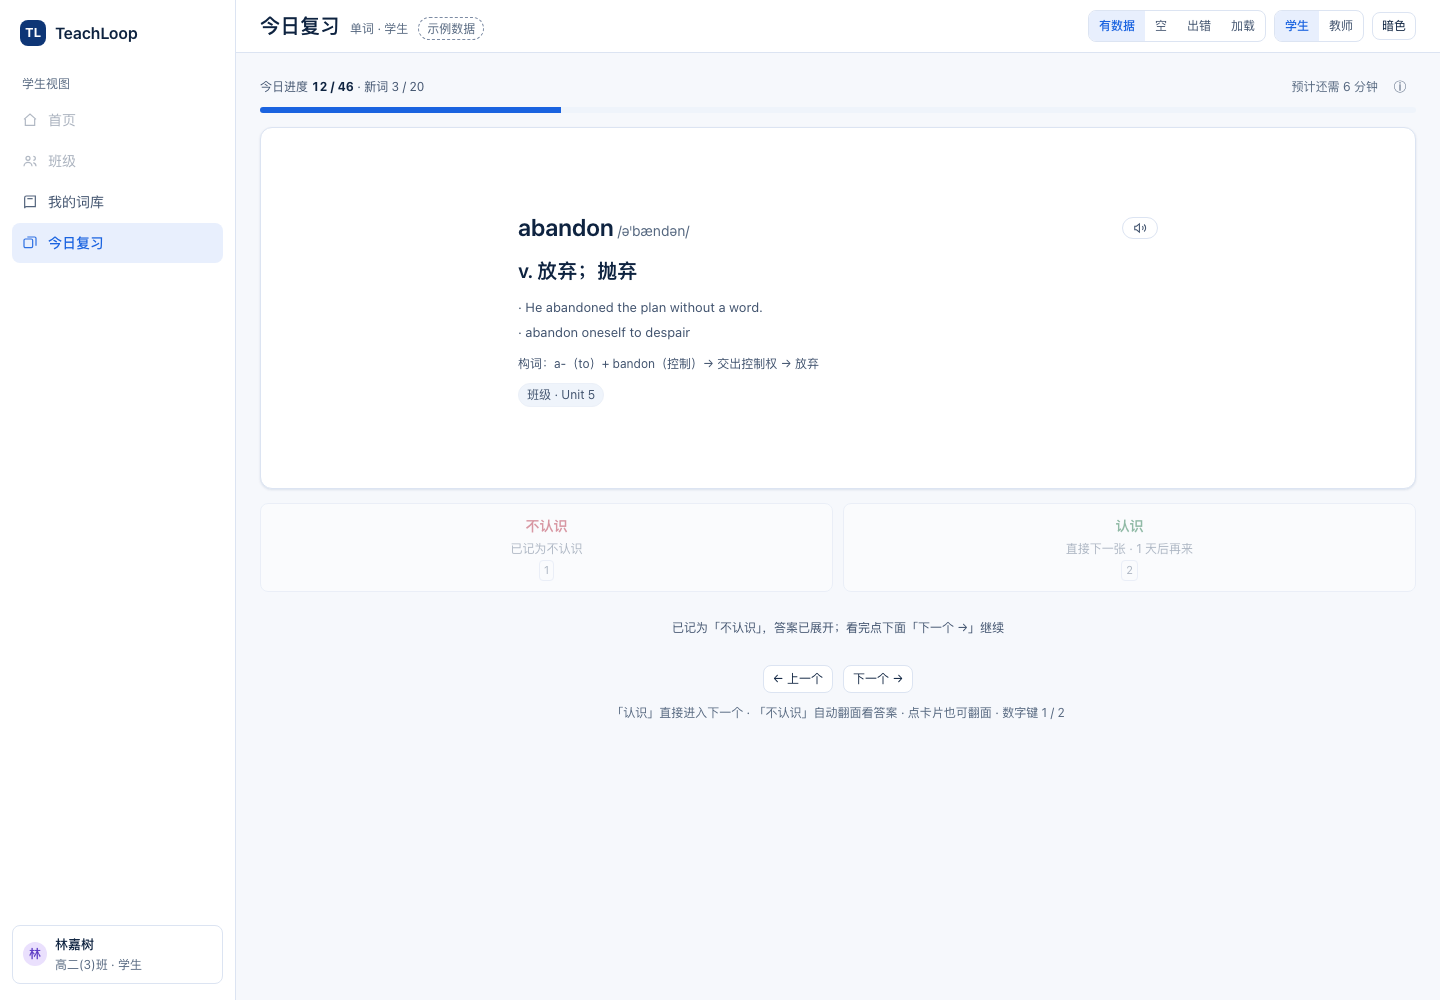
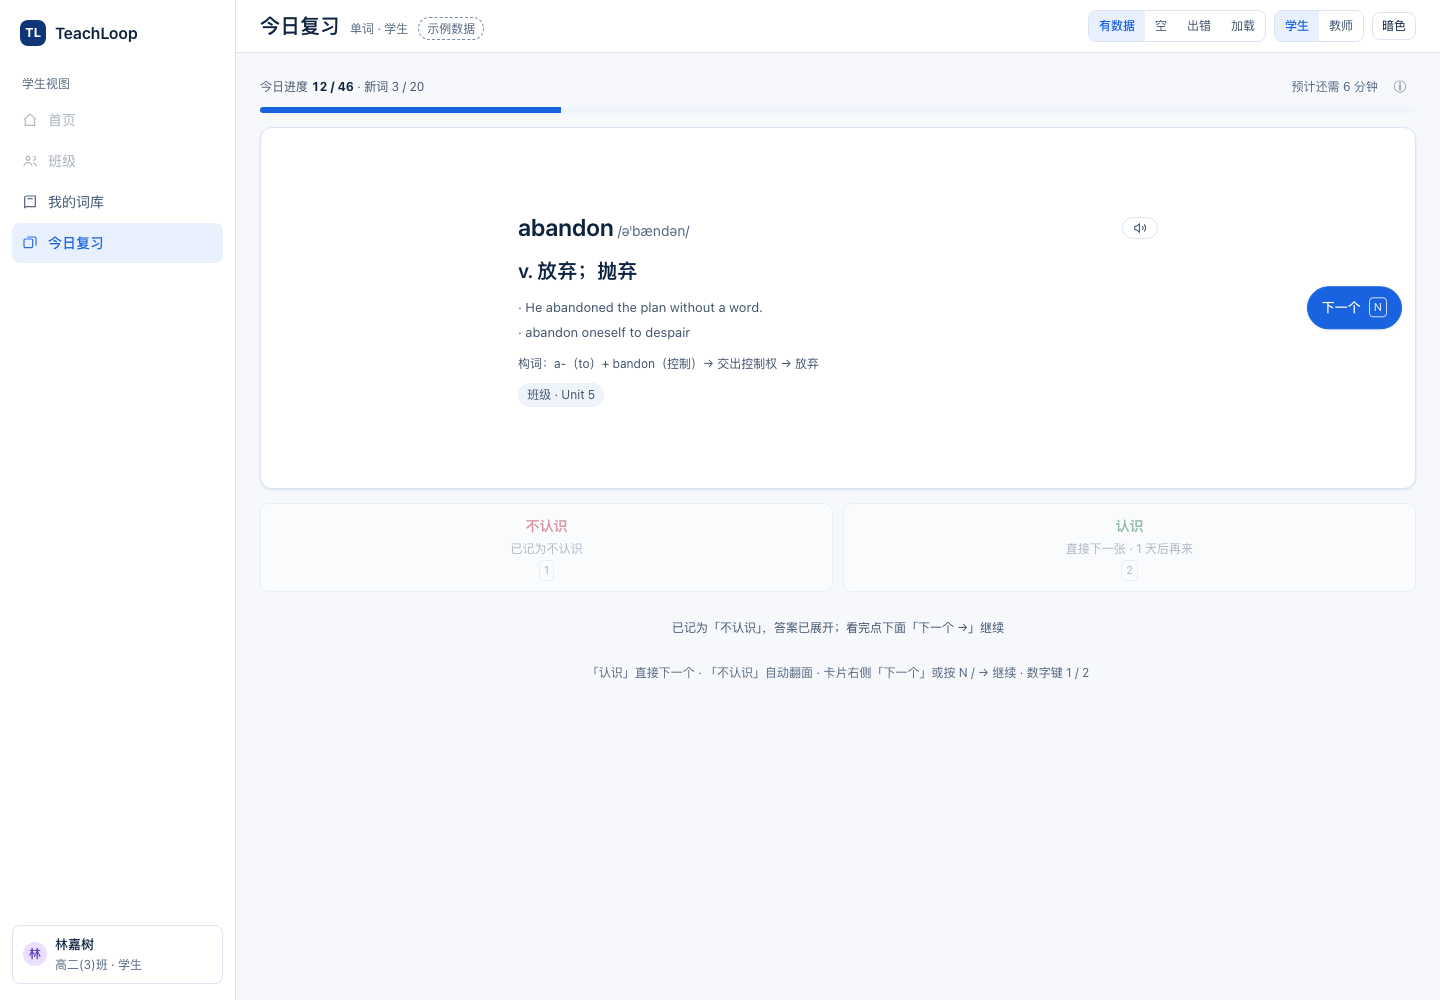
docs(vocab): 复习页去掉「上一个」、下一个改卡片右侧悬浮 + N/→ 快捷键
2026-10-23 决定：简化逻辑，不做上一个、不做撤销。

- 「下一个」移到卡片右侧悬浮：未评分时半透明，翻面后高亮为主按钮；窄屏落回卡片下方
- 快捷键：N 与 → 都等于下一个；数字键 1/2 仍是评分
- spec AC-53.7 改写；新增 §19 记录「误点后如何补救」的三种现有途径与代价（待定是否加重置进度）

Changed region(s): [[0.5, 0.651, 0.75, 0.744], [0.9062, 0.279, 0.9688, 0.341], [0.4062, 0.651, 0.4688, 0.682]]

diff --git a/docs/mock/vocab-2026-10-23/index.html b/docs/mock/vocab-2026-10-23/index.html
@@ -234,6 +234,15 @@
   .combo-list button:hover { background:var(--panel-2); }
   .class-panel { border:1px solid var(--line); border-radius:var(--radius-sm); padding:10px 12px; max-height:240px; overflow:auto; }
   .cp-group + .cp-group { border-top:1px dashed var(--line-2); margin-top:10px; padding-top:10px; }
+
+  .card-next { position:absolute; right:14px; top:50%; transform:translateY(-50%);
+               display:inline-flex; align-items:center; gap:8px; padding:10px 14px; border-radius:999px;
+               border:1px solid var(--line); background:var(--panel); color:var(--muted); font-size:13px;
+               box-shadow:var(--shadow); opacity:.55; transition:opacity .15s, background .15s; }
+  .card-next:hover { opacity:1; }
+  .card-next.on { opacity:1; background:var(--accent); border-color:var(--accent); color:var(--on-accent); font-weight:500; }
+  .card-next .kbd { font-size:11px; border:1px solid currentColor; border-radius:4px; padding:0 4px; opacity:.8; }
+  @media (max-width:760px) { .card-next { right:50%; transform:translate(50%,0); top:auto; bottom:-18px; } }
 </style>
 </head>
 <body>
@@ -804,7 +813,12 @@ function screenReview(){
         <div class="sm muted" style="margin-top:6px">新词 12 · 到期复习 34 · 今天已复习 12 · 卡组视图：易错 46 / Unit 5 28</div>
         <div class="sm muted-2" style="margin-top:6px">「认识」= 良好（间隔 × 易度），「不认识」= 忘记（5 分钟后重来）；连续 4 次认识且间隔 ≥45 天自动标为已掌握。参数都在 application.yml 里。</div>
       </div>`:''}
-      <div class="card">${S.flipped?back:front}</div>
+      <div style="position:relative">
+        <div class="card">${S.flipped?back:front}</div>
+        <button class="card-next ${(S.flipped||S.rated==='again')?'on':''}" onclick="nextCard()" title="下一个（N / →）">
+          下一个 <span class="kbd">N</span>
+        </button>
+      </div>
       <div class="rates" style="grid-template-columns:repeat(2,1fr)">
         <button class="rate again" ${S.rated?'disabled style="opacity:.45"':''} onclick="rate('again')">
           <span class="n">不认识</span><span class="d">${S.rated==='again'?'已记为不认识':'翻面看答案 · 5 分钟后再来'}</span><span class="kbd">1</span></button>
@@ -813,11 +827,8 @@ function screenReview(){
       </div>
       ${S.rated==='again'?`<div class="card-pad sm" style="margin-top:10px;text-align:center;color:var(--muted)">
         已记为「不认识」，答案已展开；看完点下面「下一个 →」继续</div>`:''}
-      <div class="row" style="justify-content:center;margin-top:12px;gap:10px">
-        <button class="btn sm" ${(S.free?S.freeIdx:S.idx)<=0?'disabled':''} onclick="prevCard()">← 上一个</button>
-        <button class="btn sm" onclick="nextCard()">下一个 →</button>
-      </div>
-      <div class="hint">「认识」直接进入下一个 · 「不认识」自动翻面看答案 · 点卡片也可翻面 · 数字键 1 / 2${S.free?" · S 移出复习":""}</div>
+
+      <div class="hint">「认识」直接下一个 · 「不认识」自动翻面 · 卡片右侧「下一个」或按 N / → 继续 · 数字键 1 / 2${S.free?" · S 移出复习":""}</div>
       ${S.free?`<div class="row" style="justify-content:center;margin-top:8px">
         <button class="btn" onclick="markKnown(currentWord().w);toast('已移出复习')">移出复习（S）</button>
         <button class="btn" onclick="endFree()">结束复习</button>
@@ -1166,6 +1177,7 @@ document.addEventListener('keydown', e=>{
   if (S.screen!=='review' || S.ds!=='data') return;
   if (e.code==='Space'){ e.preventDefault(); S.flipped=!S.flipped; render(); }
   if (e.key==='1'||e.key==='2') rate(e.key==='1'?'again':'good');
+  if (e.key.toLowerCase()==='n' || e.key==='ArrowRight') { e.preventDefault(); nextCard(); }
   if (e.key.toLowerCase()==='s' && S.free) { markKnown(currentWord().w); toast('已移出复习'); }
 });
 /* 支持 #review / #wordset / #assign / #library?ds=empty 深链，方便截图与评审 */

diff --git a/specs/004-vocab/spec.md b/specs/004-vocab/spec.md
@@ -120,7 +120,7 @@
   - 同一张卡**只能评一次**：评过之后两个按钮置灰，直到切到下一张；
   - 点击卡片本身是「手动翻面」，只展示内容、不产生评分。
 - [ ] AC-53.3 每次评分写入一条复习日志（词条、评分、时间、可选耗时）；「认识」评分后立即进入下一张，「不认识」评分后翻面停留。
-- [ ] AC-53.7 复习页有**「← 上一个 / 下一个 →」**：上一个可回看已评过的词（回看不改评分），下一个可跳过当前词；第一张时「上一个」禁用。
+- [ ] AC-53.7 复习页只有**「下一个」**，**悬浮在卡片右侧**：未评分时半透明（可跳过），翻面后（点了「不认识」）变为高亮主按钮；快捷键 **`N`** 与 **`→`** 等价。**不提供「上一个」，也不提供撤销**（2026-10-23 用户决定：简化逻辑）。
 - [ ] AC-53.4 按 §5 的表更新该词进度（状态、到期时间、间隔、易度）；该词下次出现的时间与表一致。**两档评分到内部调度参数的映射见 §5 与 §17（待讨论）**，实现时先按默认映射落地。
 - [ ] AC-53.5 调度决策来自**可替换策略**，默认 SM-2；验收判定以「默认策略」为准，换策略不改表结构。
 - [ ] AC-53.6 提交失败（断网/5xx）时停留在当前卡并提示重试；不前进、不重复记日志（同一次提交带幂等标识）。
@@ -510,3 +510,16 @@
 | 发词页删掉两块说明 | 收进 ⓘ 气泡 |
 | 选择词集要可输入 | combobox：输入过滤 + 下拉候选（只列启用词集） |
 | 18 个班怎么选 | 分组 chip 面板 + 搜索 + 组内全选 + 已选计数（用户 2026-10-23 选定） |
+
+
+## 19. 误点之后怎么补救（待定）
+
+2026-10-23 决定不做「上一个」也不做撤销。当前产品里能做的只有三条，都各有代价：
+
+| 途径 | 效果 | 代价 |
+| :--- | :--- | :--- |
+| 词库 → 详情页 →「移出复习」→「重新加入」 | 立刻回到「新词」，能马上再背到 | **进度归零**（间隔/易度重置），不是真正的撤销 |
+| 等下次到期 | 什么都不用做 | 「认识」会按易度往后推，老词可能 12 天后才回来 |
+| 自由复习（词库筛选 → 复习这些词） | 立刻再练一遍 | 评分会再次推进调度，可能越推越远 |
+
+是否要在详情页加一个**「重置本词进度」**（回到新词、日志保留、不做完整 undo），留待下一轮决定。
